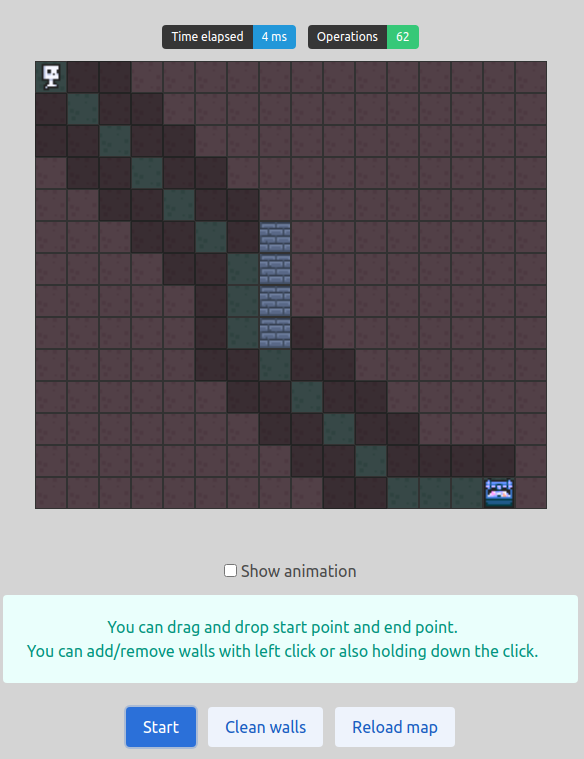
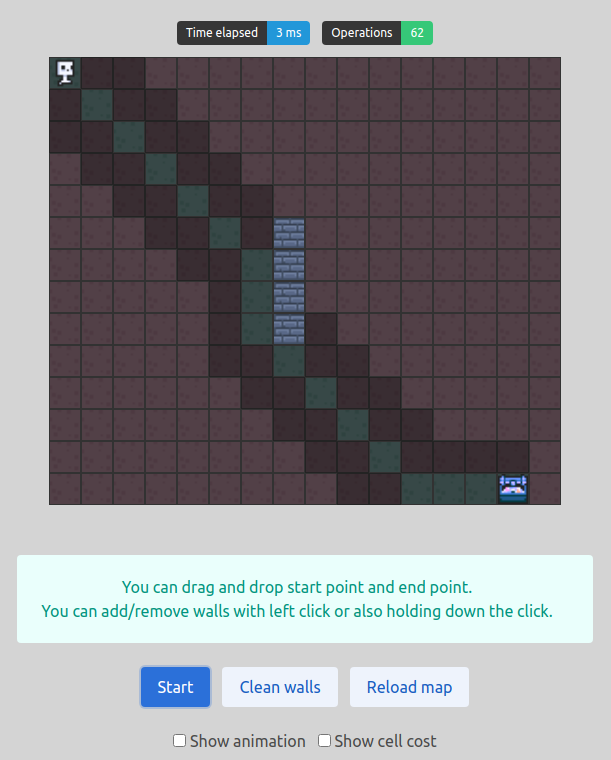
add show cell cost

Changed region(s): [[0.0616, 0.0303, 0.9555, 0.697], [0.0, 0.7273, 1.0, 1.0]]

diff --git a/src/components/ActionButtons.vue b/src/components/ActionButtons.vue
@@ -1,11 +1,5 @@
 <template>
   <div class="actions is-justify-content-center">
-    <div class="field">
-      <label class="checkbox">
-        <input type="checkbox" v-model="showAnimation">
-        Show animation
-      </label>
-    </div>
     <div class="notification is-primary is-light">
       You can drag and drop start point and end point.<br>
       You can add/remove walls with left click or also holding down the click.
@@ -13,7 +7,7 @@
     <div class="field is-grouped">
       <div class="control">
         <button class="button is-link"
-                @click="$emit('start', showAnimation)"
+                @click="start"
                 :disabled="processing"
         >
           Start
@@ -36,6 +30,16 @@
         </button>
       </div>
     </div>
+    <div class="field is-grouped mt-3">
+      <label class="checkbox mr-3">
+        <input type="checkbox" v-model="showAnimation">
+        Show animation
+      </label>
+      <label class="checkbox">
+        <input type="checkbox" v-model="showCellCost">
+        Show cell cost
+      </label>
+    </div>
   </div>
 </template>
 
@@ -49,7 +53,16 @@ export default {
   },
   data () {
     return {
-      showAnimation: true
+      showAnimation: true,
+      showCellCost: false
+    }
+  },
+  methods: {
+    start: function () {
+      this.$emit('start', {
+        showAnimation: this.showAnimation,
+        showCellCost: this.showCellCost
+      })
     }
   }
 }

diff --git a/src/App.vue b/src/App.vue
@@ -20,6 +20,7 @@
                :endPosition="endPosition"
                :path="path"
                :cellsProcessed="cellsProcessed"
+               :show-cell-cost="showCellCost"
                @updateClickCallback="(payload) => clickCallback = payload"
                @clickCell="clickCell"
     ></mapViewer>
@@ -54,11 +55,13 @@ export default {
       cellsProcessed: [],
       clickCallback: undefined,
       timeElapsed: 0,
-      processing: false
+      processing: false,
+      showCellCost: false
     }
   },
   methods: {
-    start: async function (showAnimation) {
+    start: async function (options) {
+      this.showCellCost = options.showCellCost
       this.processing = true
       this.cleanPath()
       let startX = parseInt(this.startPosition.split('_')[1])
@@ -71,7 +74,7 @@ export default {
       generator.generate()
 
       this.timeElapsed = Math.round(new Date() - startTime)
-      if (showAnimation) {
+      if (options.showAnimation) {
         await Promise.all(generator.cells.map(async (x) => {
           await new Promise(r => setTimeout(r, 25))
           this.cellsProcessed.push(x)

diff --git a/src/components/Cell.vue b/src/components/Cell.vue
@@ -1,10 +1,11 @@
 <template>
   <div
-    :class="['cell', { '--is-wall': isWall } ,{ '--path': isInPath }, { '--processed': processed }]"
+    :class="['cell', { '--is-wall': isWall }, { '--path': isInPath }, { '--processed': processed }]"
     @click="click()"
     @dragover.prevent
     @mouseover="mouseDown ? click() : undefined"
   >
+    <span class="cell__cost" v-if="$parent.showCellCost && processed">{{ processed.cost }}</span>
     <entity v-if="isStart || isEnd" :name="isStart ? 'player' : 'chest'"></entity>
   </div>
 </template>
@@ -55,6 +56,13 @@ export default {
   background-repeat: no-repeat
   background-image: url("../assets/floor.png")
   background-size: contain
+  .cell__cost
+    position: absolute
+    bottom: 1px
+    right: 1px
+    color: white
+    font-size: 11px
+    z-index: -1
   &.--is-wall
     background-image: url("../assets/wall.png")
   &.--path

diff --git a/src/components/MapViewer.vue b/src/components/MapViewer.vue
@@ -41,6 +41,10 @@ export default {
       required: true,
       type: Array
     },
+    showCellCost: {
+      required: false,
+      type: Boolean
+    }
   },
   components: {
     Cell

diff --git a/src/components/Entity.vue b/src/components/Entity.vue
@@ -23,8 +23,9 @@ export default {
 
 <style scoped lang="sass">
   .entity
-    z-index: 1
     width: 100%
     height: 100%
     object-fit: contain
+    img
+      z-index: 1
 </style>
